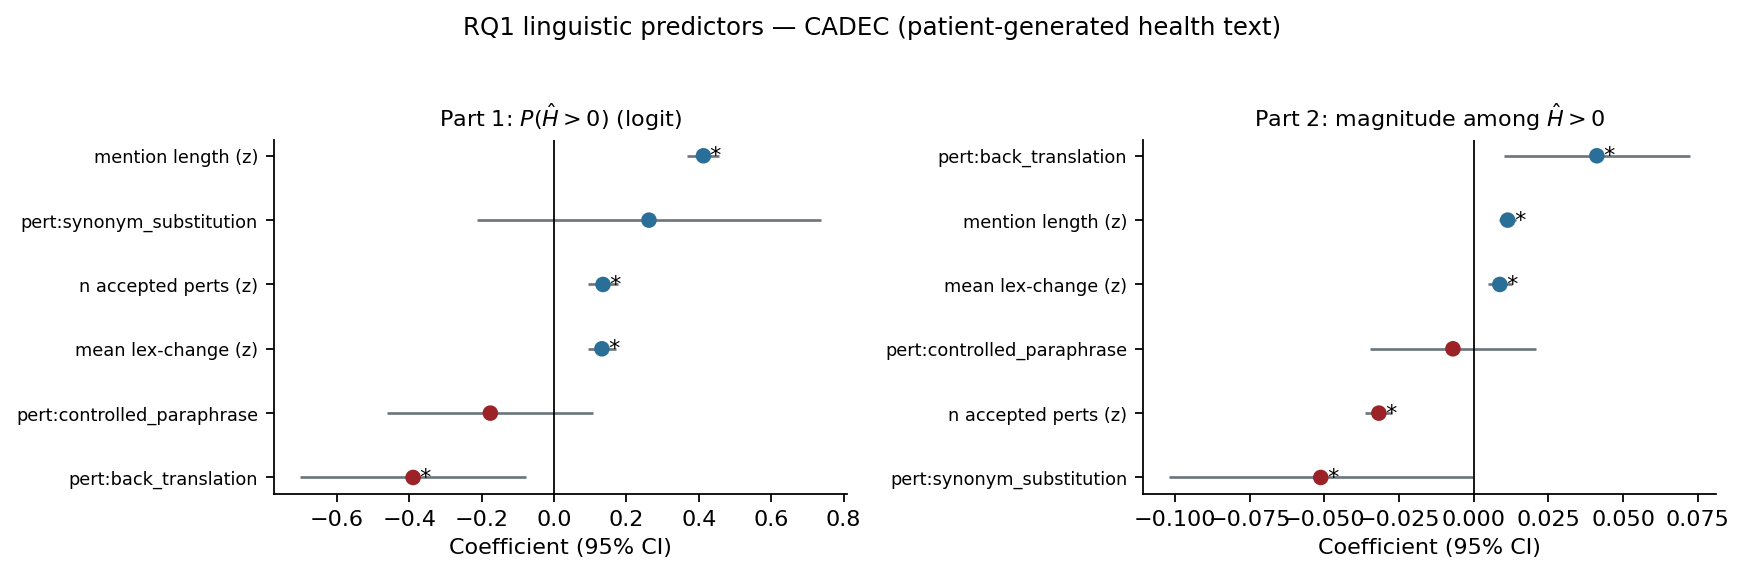
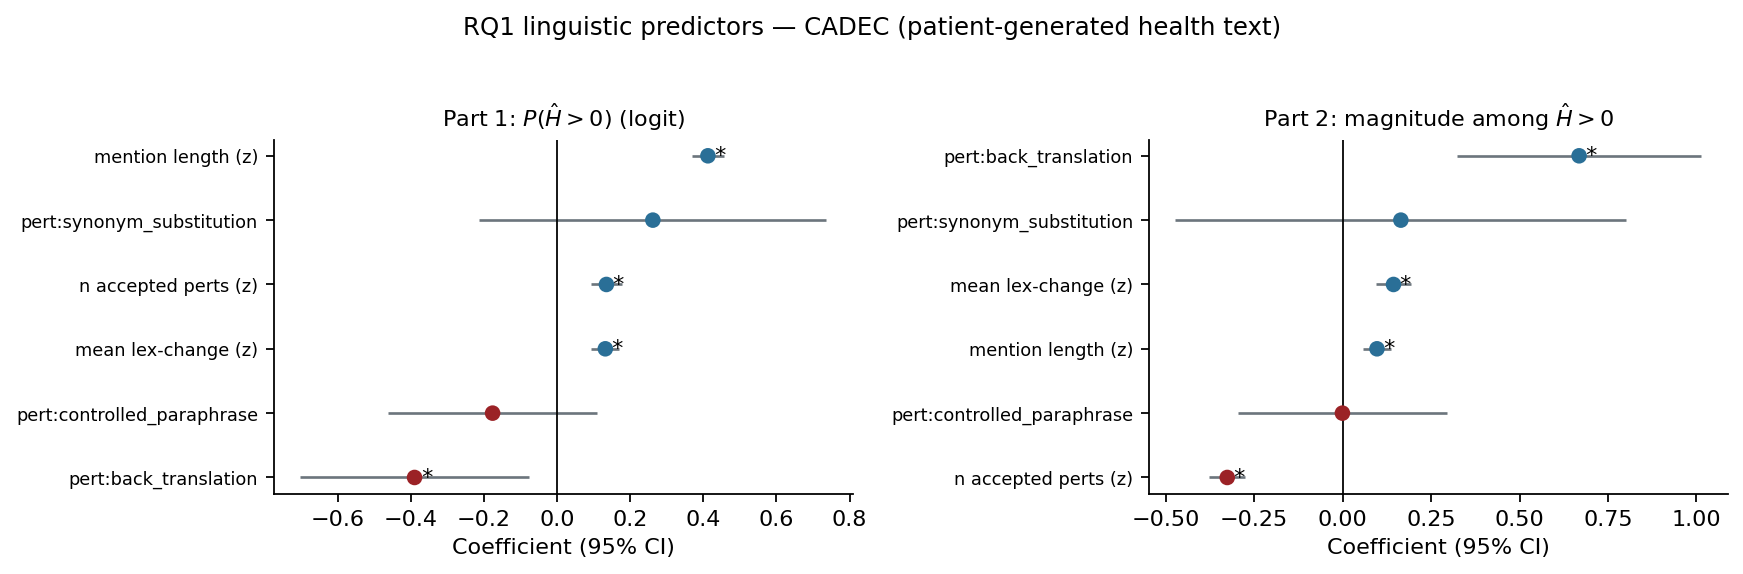
Enforce OLS for RQ1 part 2 and regenerate
fit_magnitude no longer returns MixedLM as primary. It is still fitted and
recorded under sensitivity_* keys, and the run prints whether it converged.
Part 2 is back to 14 terms on the logit(H) scale, matching the Methods section
and the tables the manuscript was written against.

diff --git a/docs/RQ1_CADEC_results_rawm.md b/docs/RQ1_CADEC_results_rawm.md
@@ -88,27 +88,26 @@ n = 41,286
 
 ### Part 2 — magnitude of H given H > 0
 
-Method: MixedLM (RE intercept: instance_id; model_name fixed). Crossed RE for model_name not identified separately — FE used.
+Method: OLS on logit(H) among H>0 + cluster-robust SE (cluster=instance_id); model_name as fixed effects. ENFORCED primary estimator (docs/ANALYSIS_PRECOMMIT.md Amendment 8)
 
 n = 23,339
 
 | term | coef | 95% CI | p | sig |
 |---|---:|:---:|---:|:--:|
-| `Intercept` | +0.4779 | [+0.4538, +0.5021] | 0 | **yes** |
-| `C(model_name)[T.BioBERT]` | +0.0225 | [+0.0132, +0.0318] | 2.23e-06 | **yes** |
-| `C(model_name)[T.BioMistral-7B]` | -0.0410 | [-0.0495, -0.0326] | 1.4e-21 | **yes** |
-| `C(model_name)[T.FLAN-T5-base]` | -0.0542 | [-0.0628, -0.0456] | 8.01e-35 | **yes** |
-| `C(model_name)[T.Llama3-OpenBioLLM-8B]` | +0.0486 | [+0.0406, +0.0565] | 7.53e-33 | **yes** |
-| `C(model_name)[T.Meta-Llama-3-8B-Instruct]` | -0.0330 | [-0.0414, -0.0246] | 1.12e-14 | **yes** |
-| `C(model_name)[T.Mistral-7B-Instruct-v0.1]` | -0.0597 | [-0.0683, -0.0511] | 4.55e-42 | **yes** |
-| `C(model_name)[T.PubMedBERT]` | +0.0187 | [+0.0094, +0.0281] | 8.71e-05 | **yes** |
-| `mean_lexical_change_magnitude_z` | +0.0070 | [+0.0037, +0.0103] | 3.65e-05 | **yes** |
-| `mention_char_len_z` | +0.0094 | [+0.0070, +0.0118] | 7.13e-15 | **yes** |
-| `n_accepted_perts_z` | -0.0291 | [-0.0320, -0.0261] | 2.89e-81 | **yes** |
-| `share_back_translation` | -0.0190 | [-0.0433, +0.0054] | 0.127 | no |
-| `share_controlled_paraphrase` | +0.0264 | [+0.0046, +0.0481] | 0.0175 | **yes** |
-| `share_synonym_substitution` | +0.0418 | [+0.0084, +0.0751] | 0.014 | **yes** |
-| `Group Var` | +0.0767 | [+0.0638, +0.0896] | 2.05e-31 | **yes** |
+| `Intercept` | -0.0603 | [-0.1972, +0.0766] | 0.388 | no |
+| `C(model_name)[T.BioBERT]` | +0.0668 | [+0.0117, +0.1220] | 0.0176 | **yes** |
+| `C(model_name)[T.BioMistral-7B]` | -0.2333 | [-0.2844, -0.1822] | 3.6e-19 | **yes** |
+| `C(model_name)[T.FLAN-T5-base]` | -0.2915 | [-0.3425, -0.2405] | 3.88e-29 | **yes** |
+| `C(model_name)[T.Llama3-OpenBioLLM-8B]` | +0.2044 | [+0.1509, +0.2579] | 6.9e-14 | **yes** |
+| `C(model_name)[T.Meta-Llama-3-8B-Instruct]` | -0.1867 | [-0.2382, -0.1352] | 1.18e-12 | **yes** |
+| `C(model_name)[T.Mistral-7B-Instruct-v0.1]` | -0.3013 | [-0.3542, -0.2485] | 5.8e-29 | **yes** |
+| `C(model_name)[T.PubMedBERT]` | +0.0641 | [+0.0103, +0.1178] | 0.0195 | **yes** |
+| `mean_lexical_change_magnitude_z` | +0.0423 | [+0.0233, +0.0614] | 1.33e-05 | **yes** |
+| `mention_char_len_z` | +0.0446 | [+0.0304, +0.0588] | 7.26e-10 | **yes** |
+| `n_accepted_perts_z` | -0.1654 | [-0.1817, -0.1491] | 8.04e-88 | **yes** |
+| `share_back_translation` | -0.3252 | [-0.4823, -0.1680] | 5.01e-05 | **yes** |
+| `share_controlled_paraphrase` | +0.1818 | [+0.0473, +0.3164] | 0.00809 | **yes** |
+| `share_synonym_substitution` | +0.4647 | [+0.2761, +0.6534] | 1.37e-06 | **yes** |
 
 Significance threshold alpha = 0.05. No multiplicity correction is applied within this table.
 

diff --git a/docs/RQ1_CADEC_results.md b/docs/RQ1_CADEC_results.md
@@ -88,27 +88,26 @@ n = 37,695
 
 ### Part 2 — magnitude of H given H > 0
 
-Method: MixedLM (RE intercept: instance_id; model_name fixed). Crossed RE for model_name not identified separately — FE used.
+Method: OLS on logit(H) among H>0 + cluster-robust SE (cluster=instance_id); model_name as fixed effects. ENFORCED primary estimator (docs/ANALYSIS_PRECOMMIT.md Amendment 8)
 
 n = 21,600
 
 | term | coef | 95% CI | p | sig |
 |---|---:|:---:|---:|:--:|
-| `Intercept` | +0.5771 | [+0.5439, +0.6103] | 2.57e-254 | **yes** |
-| `C(model_name)[T.BioBERT]` | +0.0256 | [+0.0139, +0.0372] | 1.86e-05 | **yes** |
-| `C(model_name)[T.BioMistral-7B]` | -0.0508 | [-0.0613, -0.0402] | 3.78e-21 | **yes** |
-| `C(model_name)[T.FLAN-T5-base]` | -0.0706 | [-0.0814, -0.0598] | 1.08e-37 | **yes** |
-| `C(model_name)[T.Llama3-OpenBioLLM-8B]` | +0.0574 | [+0.0475, +0.0674] | 2e-29 | **yes** |
-| `C(model_name)[T.Meta-Llama-3-8B-Instruct]` | -0.0427 | [-0.0532, -0.0322] | 1.36e-15 | **yes** |
-| `C(model_name)[T.Mistral-7B-Instruct-v0.1]` | -0.0727 | [-0.0835, -0.0620] | 3.92e-40 | **yes** |
-| `C(model_name)[T.PubMedBERT]` | +0.0214 | [+0.0096, +0.0331] | 0.000365 | **yes** |
-| `mean_lexical_change_magnitude_z` | +0.0088 | [+0.0046, +0.0129] | 3.19e-05 | **yes** |
-| `mention_char_len_z` | +0.0114 | [+0.0084, +0.0143] | 4.22e-14 | **yes** |
-| `n_accepted_perts_z` | -0.0317 | [-0.0362, -0.0272] | 1.42e-43 | **yes** |
-| `share_back_translation` | +0.0412 | [+0.0101, +0.0723] | 0.00933 | **yes** |
-| `share_controlled_paraphrase` | -0.0069 | [-0.0347, +0.0208] | 0.624 | no |
-| `share_synonym_substitution` | -0.0512 | [-0.1020, -0.0004] | 0.0483 | **yes** |
-| `Group Var` | +0.0744 | [+0.0616, +0.0871] | 3.34e-30 | **yes** |
+| `Intercept` | +0.7077 | [+0.3222, +1.0932] | 0.00032 | **yes** |
+| `C(model_name)[T.BioBERT]` | +0.1153 | [-0.0409, +0.2714] | 0.148 | no |
+| `C(model_name)[T.BioMistral-7B]` | -0.6849 | [-0.8109, -0.5588] | 1.79e-26 | **yes** |
+| `C(model_name)[T.FLAN-T5-base]` | -0.8598 | [-0.9817, -0.7379] | 1.95e-43 | **yes** |
+| `C(model_name)[T.Llama3-OpenBioLLM-8B]` | +0.3727 | [+0.2303, +0.5152] | 2.91e-07 | **yes** |
+| `C(model_name)[T.Meta-Llama-3-8B-Instruct]` | -0.5793 | [-0.7083, -0.4502] | 1.43e-18 | **yes** |
+| `C(model_name)[T.Mistral-7B-Instruct-v0.1]` | -0.7820 | [-0.9100, -0.6540] | 5.06e-33 | **yes** |
+| `C(model_name)[T.PubMedBERT]` | +0.0467 | [-0.1073, +0.2007] | 0.552 | no |
+| `mean_lexical_change_magnitude_z` | +0.1438 | [+0.0931, +0.1945] | 2.71e-08 | **yes** |
+| `mention_char_len_z` | +0.0971 | [+0.0569, +0.1374] | 2.28e-06 | **yes** |
+| `n_accepted_perts_z` | -0.3261 | [-0.3775, -0.2746] | 2.26e-35 | **yes** |
+| `share_back_translation` | +0.6684 | [+0.3227, +1.0141] | 0.000151 | **yes** |
+| `share_controlled_paraphrase` | -0.0006 | [-0.2961, +0.2950] | 0.997 | no |
+| `share_synonym_substitution` | +0.1646 | [-0.4732, +0.8024] | 0.613 | no |
 
 Significance threshold alpha = 0.05. No multiplicity correction is applied within this table.
 
